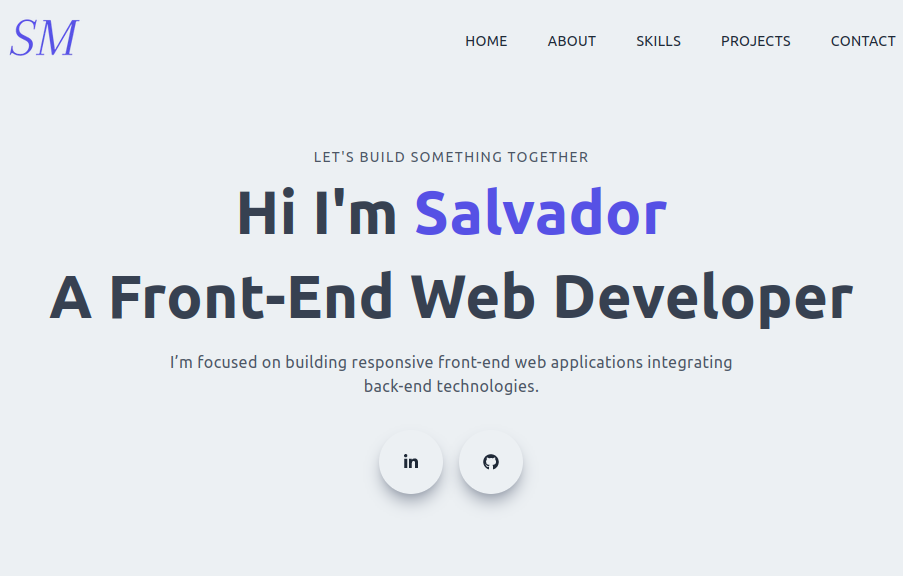
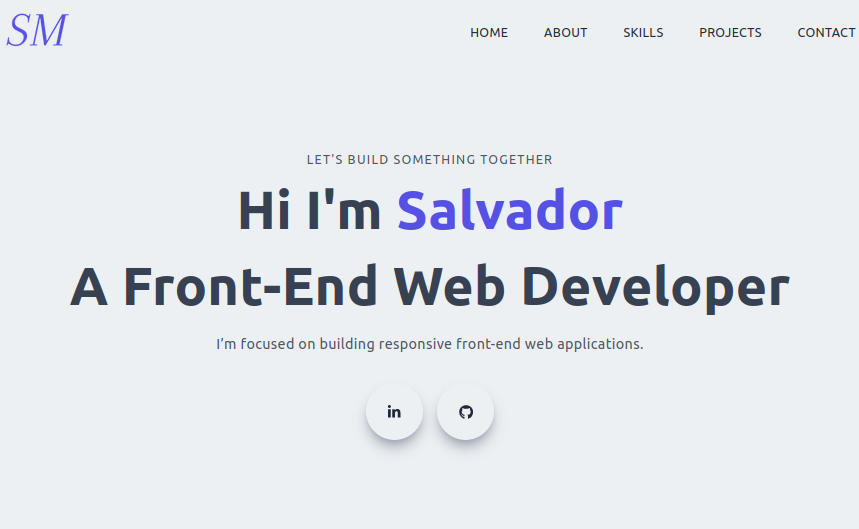
deploy6

diff --git a/components/Main.jsx b/components/Main.jsx
@@ -16,8 +16,7 @@ const Main = () => {
                         A Front-End Web Developer
                     </h1>
                     <p className='py-4 text-gray-600 max-w-[70%] m-auto'>
-                        I’m focused on building responsive front-end web applications
-                        integrating back-end technologies.
+                        I’m focused on building responsive front-end web applications.
                     </p>
                     <div className='flex items-center justify-center max-w-[330px] m-auto py-4' >
                         <a href='https://www.linkedin.com/in/salvador-mart%C3%ADnez-11211020a' target='_blank' >
